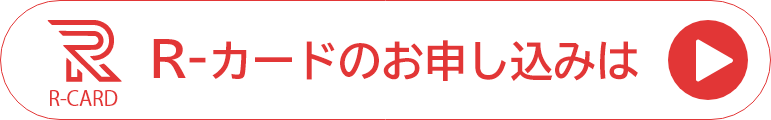
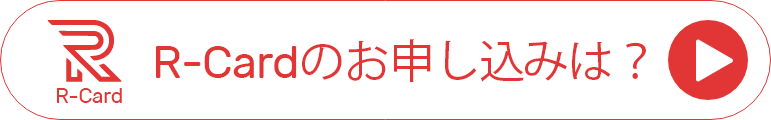
fix ja lang

Changed region(s): [[0.1868, 0.325, 0.8405, 0.675], [0.0623, 0.725, 0.1556, 0.9]]

diff --git a/index.html b/index.html
@@ -84,8 +84,8 @@
             <div class="R-card__wrappertitle">
               <img src="./hp/img/r-card/prepaid_kino-b.png" />
             </div>
-            <p class="R-card__subTitle">R-カードは暗号通貨でチャージできるレボレット専用プリペイドカード</p>
-            <p class="R-card__subTitle">カードの発行手数料はUSD500ドル</p>
+            <p class="R-card__subTitle">R-カードは暗号通貨でチャージできるレボレット 専用プリペイドカード、</p>
+            <p class="R-card__subTitle">カードの発行手数料は500ドル</p>
           </div>
         </div>
         <!-- ------------- -->
@@ -128,9 +128,9 @@
               <img src="./hp/img/r-card/prepaid_charge-b.png" />
             </div>
             <p class="R-card__subTitle">初回カードチャージはUSD300ドルが必要</p>
-            <p class="R-card__subTitle">2回目からはUSD100ドル以上　最大チャージ額は、USD10,000ドル/回</p>
-            <p class="R-card__subTitle">最大カード残高は、USD50,000ドル/1ヶ月まで可能</p>
-            <p class="R-card__subTitle">チャージは4-7営業日でカードに反映が完了します</p>
+            <p class="R-card__subTitle">2回目からはUSD100ドル以上、最大チャージ額はUSD13,000ドル/回</p>
+            <p class="R-card__subTitle">最大カード残高はUSD13,000</p>
+            <p class="R-card__subTitle">チャージは1-2営業日でカードに反映が完了します</p>
           </div>
         </div>
         <!-- ------------- -->
@@ -204,7 +204,7 @@
                       <div class="col-sm-12 col-md-12 col-lg-12">
                         <div class="wrapper-title">
                           <h2>ショッピング</h2>
-                          <p>使い方は通常のカードと同じです。ユニオンペイが記載されている店舗で利用可能。</p>
+                          <p>使い方は通常のカードと同じです。マスターカードが記載されている店舗で利用可能。</p>
                           <p>カードを提示して暗証番号を入力すれば決済OK。</p>
                           <p>1回の限度額はUSD2,000ドル（約22万円）</p>
                           <hr>
@@ -216,12 +216,11 @@
                               <div class="card remove-border">
                                 <img class="card-img-top" src="./hp/img/r-card/mastercard_PNG25.png">
                                 <div class="card-body">
-                                  <h5 class="card-title">ユニオンペイ記載の</h5>
+                                  <h5 class="card-title">マスターカード記載の</h5>
                                   <h5 class="card-title">店舗で利用可能</h5>
                                 </div>
                               </div>
                             </div>
-
                             <div class="col-sm-12 col-md-4 col-lg-4">
                               <div class="card remove-border">
                                 <img class="card-img-top" src="./hp/img/r-card/wallet.png">
@@ -231,7 +230,6 @@
                                 </div>
                               </div>
                             </div>
-
                             <div class="col-sm-12 col-md-4 col-lg-4">
                               <div class="card remove-border">
                                 <img class="card-img-top" src="./hp/img/r-card/kessai.png">
@@ -269,9 +267,12 @@
                       <div class="col-sm-12 col-md-12 col-lg-12">
                         <div class="wrapper-title">
                           <h2>ATM出金</h2>
-                          <p>ATMでの出金は、カードの出金限度額USD2,000ドル/回（約22万円）</p>
-                          <p>程度とは別に各ATMの限度額が適用されます。日本では最低千円から</p>
-                          <p>出金可能。様々な国と地域で現地通貨を引き出すことができます。</p>
+                          <p>ATMでの出金は、カードの1日の出金限度額は2500 USD/日（約27万円）</p>
+                          <p>１度の利用で1000ドル/回（約11万円）</p>
+                          <p>年間で25,000 USD（約275万円）引き出すことができます。</p>
+                          <p>カードとは別に各ATMの限度額が適用されます。</p>
+                          <p>日本では最低数千円から出金可能。</p>
+                          <p>様々な国と地域で、現地通貨を引き出すことができます。</p>
                           <hr>
                         </div>
 
@@ -281,7 +282,7 @@
                               <div class="card remove-border">
                                 <img class="card-img-top" src="./hp/img/r-card/mastercard_PNG25.png">
                                 <div class="card-body">
-                                  <h5 class="card-title">ユニオンペイが</h5>
+                                  <h5 class="card-title">マスターカードが</h5>
                                   <h5 class="card-title">記載されているATM</h5>
                                 </div>
                               </div>
@@ -302,7 +303,7 @@
                                 <img class="card-img-top" src="./hp/img/r-card/tsuka.png">
                                 <div class="card-body">
                                   <h5 class="card-title">様々な国と地域で</h5>
-                                  <h5 class="card-title">現地通貨を引出し可</h5>
+                                  <h5 class="card-title">現地通貨を引き出し可</h5>
                                 </div>
                               </div>
                             </div>
@@ -334,14 +335,14 @@
                       <div class="col-sm-12 col-md-12 col-lg-12">
                         <div class="wrapper-title">
                           <h2>残高確認</h2>
-                          <p>残高確認は専用ポータルで行うことができます</p>
+                          <p>残高確認はRevollet内で行うことができます。</p>
                           <hr>
                         </div>
                         <div class="wrapper-content">
                           <div class="row">
                             <div class="col-12">
                               <div class="card remove-border">
-                                <h2 class="card-title">PREPAID <span>CARD</span></h2>
+                                <h2 class="card-title">PREPAID CARD<span></span></h2>
                                 <img class="card-img-top set-w300" src="./hp/img/r-card/rcard_final.svg">
                                 <a class="btn trsp-btn" target="_blank" href="#">Charge R-card</a>
                               </div>
@@ -374,7 +375,7 @@
                       <div class="col-sm-12 col-md-12 col-lg-12">
                         <div class="wrapper-title">
                           <h2>履歴確認</h2>
-                          <p>専用ポータルですべての履歴を瞬時に確認することができます</p>
+                          <p>履歴確認はRevollet内ですべての履歴を瞬時に確認することができます。</p>
                           <hr>
                         </div>
                         <div class="wrapper-content">
@@ -441,13 +442,15 @@
               <h2 class="Support__title">FAQ（よくあるご質問）</h2>
               <hr>
               <p class="Support__subTitle"> Q.　カードの審査で不備が出た場合は？</p>
-              <p class="Support__subTitle"> A.　Revolletカスタマーサポートから連絡させていただきます</p>
+              <p class="Support__subTitle">A.　Revolletカスタマーサポートセンターから不備理由を連絡させていただきます。</p>
               <p class="Support__subTitle"> Q.　限度額を超えてしまってカードチャージされない場合は？</p>
               <p class="Support__subTitle"> A.　カード会社で保留され、チャージ枠が空いた分だけチャージされます</p>
               <p class="Support__subTitle"> Q.　コード入力を間違えてロックされた場合は？</p>
               <p class="Support__subTitle"> A.　PINコード解除手続のためRevolletカスタマーサポートにご連絡ください</p>
               <p class="Support__subTitle"> Q.　カードを紛失してしまった場合は？</p>
               <p class="Support__subTitle"> A.　カード利用停止と再発行手続のためRevolletカスタマーサポートにご連絡ください</p>
+              <p class="Support__subTitle"> Q.　パスポートの有効期限が切れそうです。本人確認書類として使うことはできますか？</p>
+              <p class="Support__subTitle">A.　有効期限が切れたパスポートは利用することができません。パスポートの有効期限は1年以上あるパスポートのご提出が必要でございます。</p>
             </div>
           </div>
         </div>

diff --git a/hp/css/styles.css b/hp/css/styles.css
@@ -398,7 +398,6 @@ html {
 
 .R-card__card .card-right .wrapper-content .remove-border {
   border: none !important;
-  text-align: left !important;
 }
 
 .R-card__card .card-right .wrapper-content .remove-border .card-title {
@@ -479,6 +478,25 @@ html {
   max-width: 80%;
 }
 
+/*# sourceMappingURL=styles.css.map */
+/*# sourceMappingURL=styles.css.map */
+/*# sourceMappingURL=styles.css.map */
+/*# sourceMappingURL=styles.css.map */
+/*# sourceMappingURL=styles.css.map */
+/*# sourceMappingURL=styles.css.map */
+/*# sourceMappingURL=styles.css.map */
+/*# sourceMappingURL=styles.css.map */
+/*# sourceMappingURL=styles.css.map */
+/*# sourceMappingURL=styles.css.map */
+/*# sourceMappingURL=styles.css.map */
+/*# sourceMappingURL=styles.css.map */
+/*# sourceMappingURL=styles.css.map */
+/*# sourceMappingURL=styles.css.map */
+/*# sourceMappingURL=styles.css.map */
+/*# sourceMappingURL=styles.css.map */
+/*# sourceMappingURL=styles.css.map */
+/*# sourceMappingURL=styles.css.map */
+/*# sourceMappingURL=styles.css.map */
 /*# sourceMappingURL=styles.css.map */
 
 /*# sourceMappingURL=styles.css.map */

diff --git a/hp/css/styles.scss b/hp/css/styles.scss
@@ -389,7 +389,6 @@ html {
       .wrapper-content {
         .remove-border {
           border: none !important;
-          text-align: left !important;
 
           .card-title {
             font-weight: 400;
